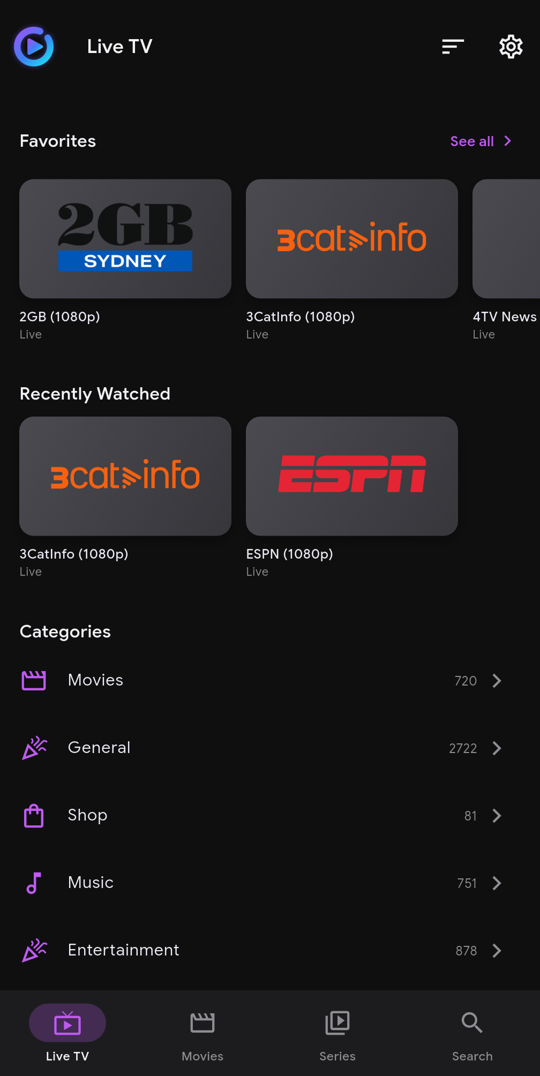
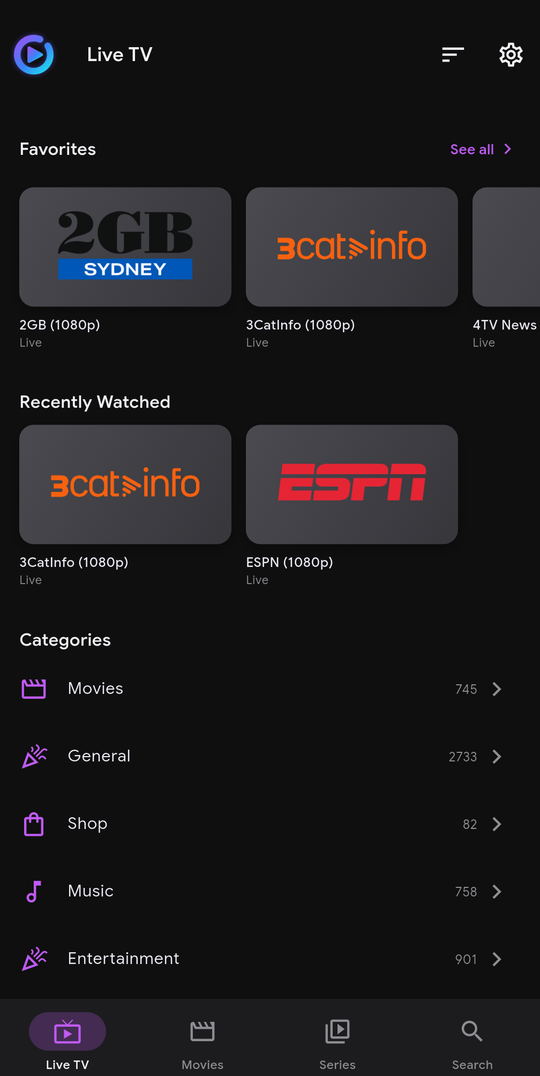
docs: refresh README screenshots for v0.10.109
New phone shots (Live TV, channels, Settings with the refresh rows, add-playlist wizard incl. the Xtream login page, playlist file) and Android TV shots (the bottom-bar player, Live TV home, search), all with the public iptv-org playlist.

diff --git a/README.md b/README.md
@@ -41,23 +41,24 @@
 ## Screenshots
 
 <p align="center">
-  <img src="docs/screenshots/player.jpg" alt="The player: centred controls, live badge and channel guide" width="820">
+  <img src="docs/screenshots/player.jpg" alt="The player on a phone: centred controls, live badge and action buttons" width="820">
 </p>
 
 <table>
   <tr>
     <td align="center"><img src="docs/screenshots/live_tv.png" alt="Live TV home with Favorites and Recently Watched rows" width="200"><br><sub>Live TV</sub></td>
     <td align="center"><img src="docs/screenshots/channels.png" alt="Channel list with logo tiles" width="200"><br><sub>Channels</sub></td>
-    <td align="center"><img src="docs/screenshots/settings.png" alt="Grouped Settings" width="200"><br><sub>Settings</sub></td>
+    <td align="center"><img src="docs/screenshots/settings.png" alt="Settings with one-tap Refresh Everything, Playlists and TV Guides" width="200"><br><sub>Settings</sub></td>
   </tr>
   <tr>
     <td align="center"><img src="docs/screenshots/setup_wizard.png" alt="Setup wizard: choosing a playlist type" width="200"><br><sub>Add a playlist</sub></td>
+    <td align="center"><img src="docs/screenshots/xtream_login.png" alt="Entering Xtream Codes login details" width="200"><br><sub>Xtream login</sub></td>
     <td align="center"><img src="docs/screenshots/playlist_file.png" alt="Adding a playlist from a file on the device" width="200"><br><sub>From a file</sub></td>
-    <td></td>
   </tr>
 </table>
 
 <p align="center">
+  <img src="docs/screenshots/tv_player.jpg" alt="Android TV player: every control in one slim bar along the bottom" width="820"><br>
   <img src="docs/screenshots/tv_live.png" alt="Android TV: side navigation rail and focused channel card" width="400">
   <img src="docs/screenshots/tv_search.png" alt="Android TV: search results as channel cards" width="400"><br>
   <sub>On Android TV and Fire TV</sub>
